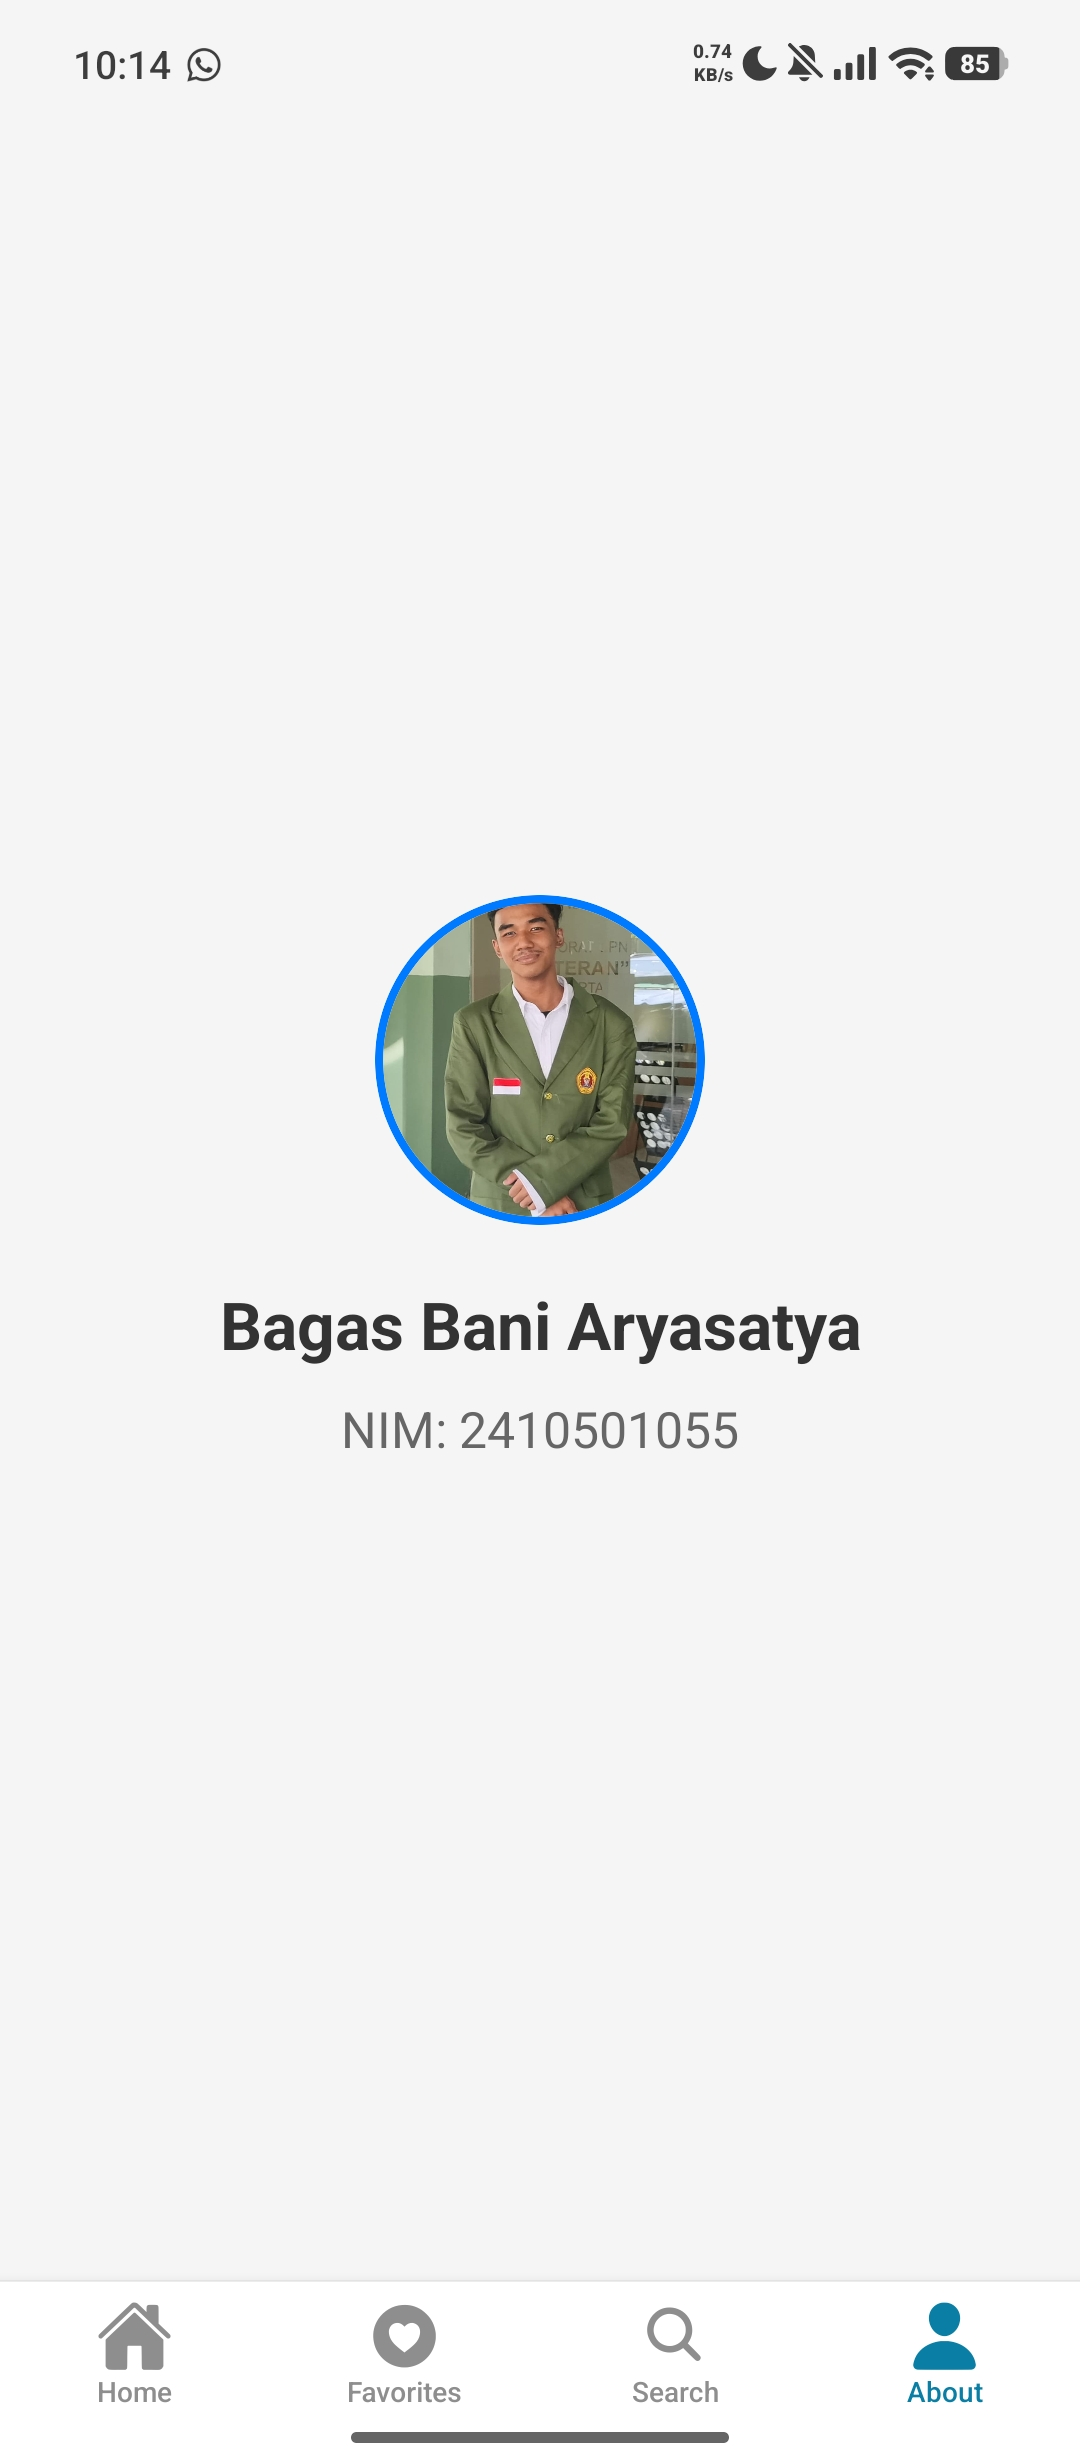
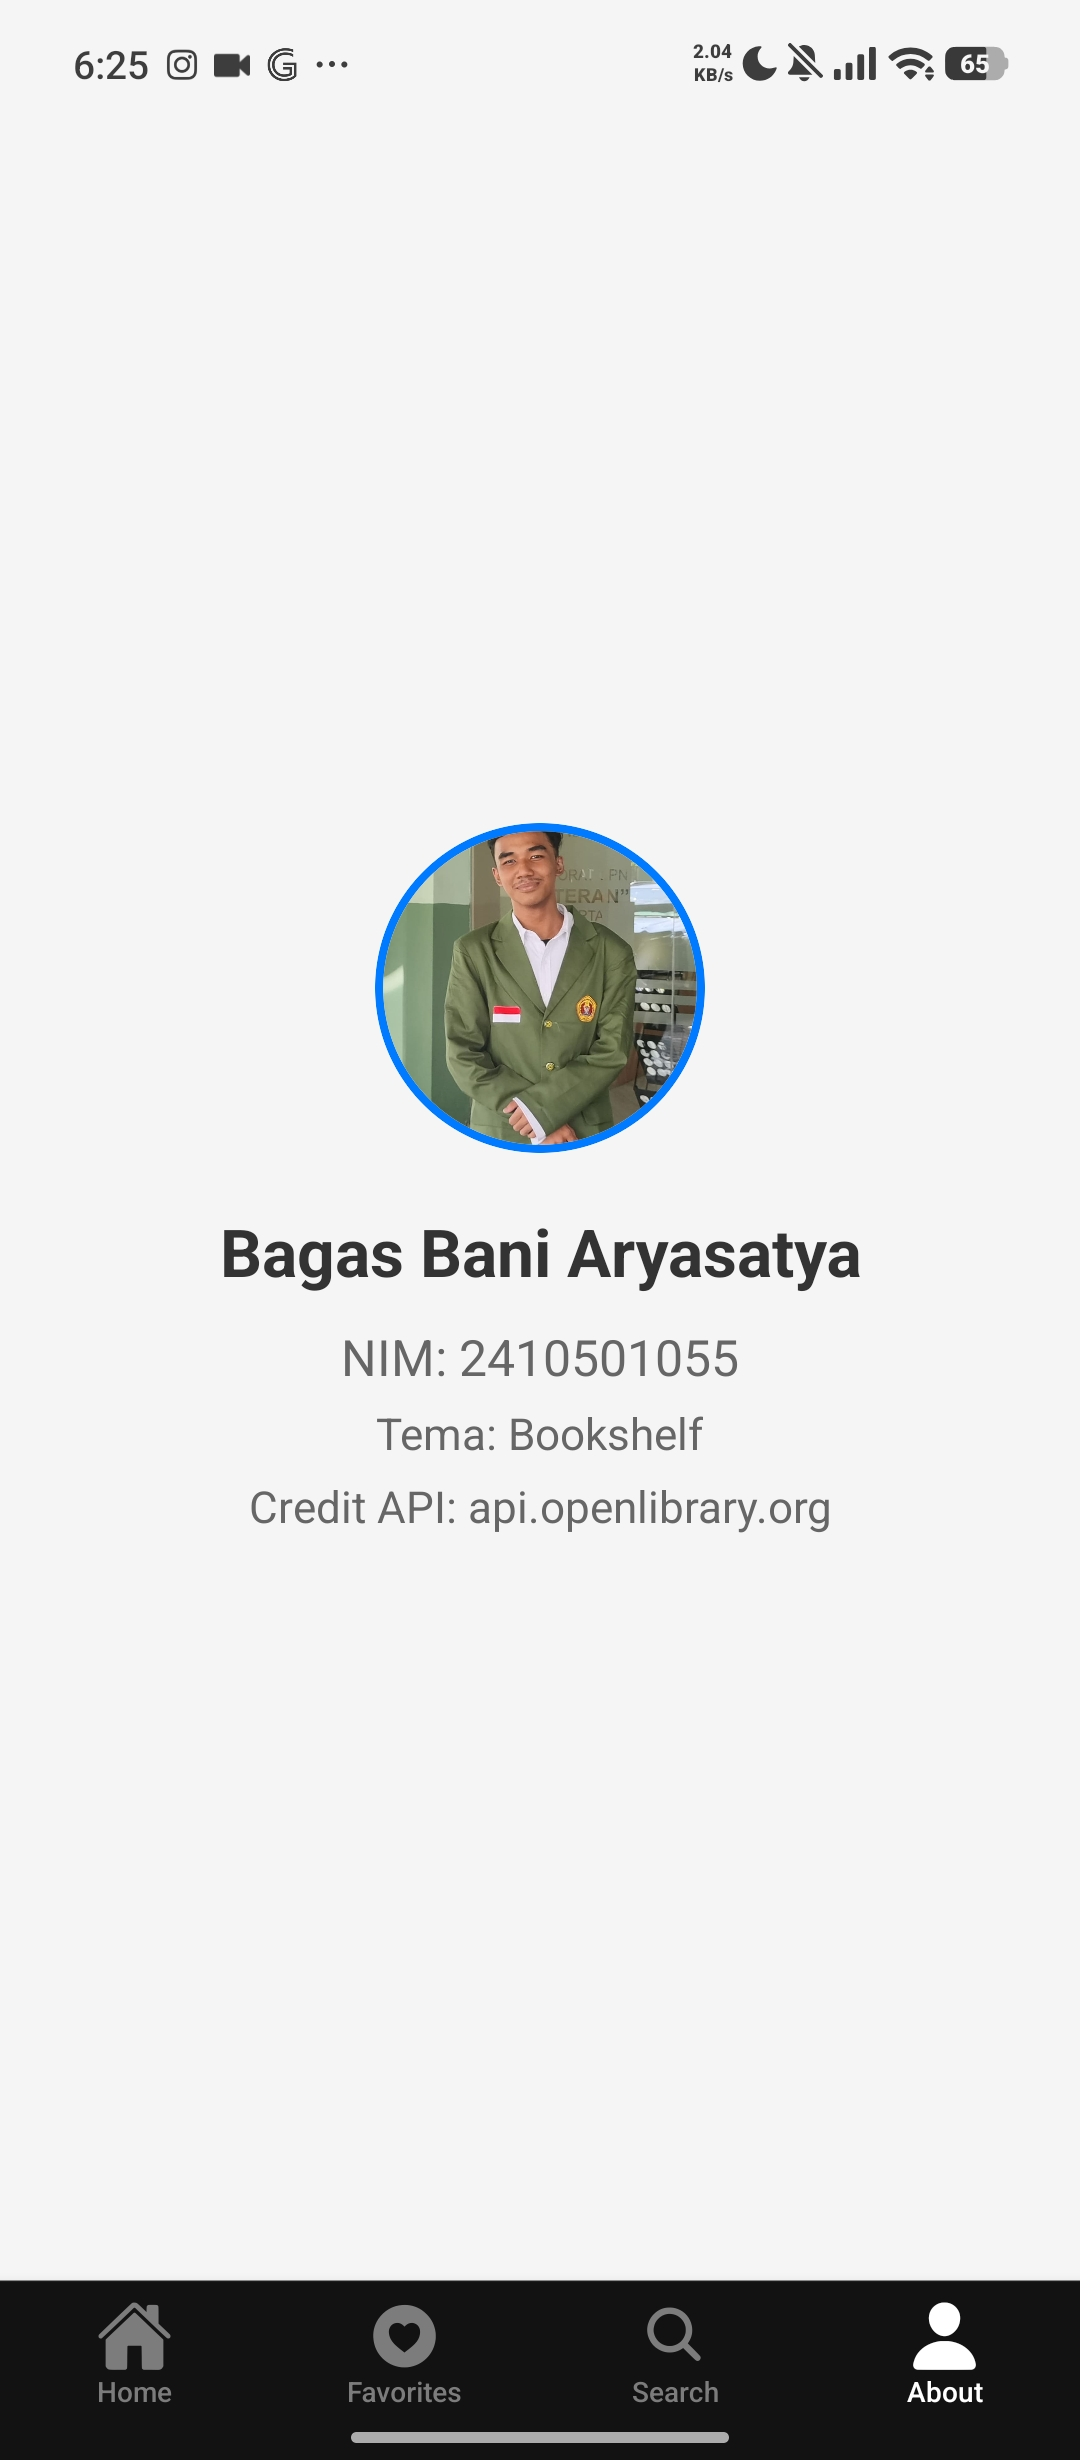
Menambahkan tema dan credit API di about, Menambahkan link google drive, melengkapkan README

diff --git a/app/(tabs)/about.tsx b/app/(tabs)/about.tsx
@@ -36,6 +36,22 @@ export default function AboutScreen() {
         }}>
           NIM: 2410501055
         </Text>
+        <Text style={{
+          fontSize: 16,
+          color: '#666',
+          textAlign: 'center',
+          marginTop: 5
+        }}>
+          Tema: Bookshelf
+        </Text>
+        <Text style={{
+          fontSize: 16,
+          color: '#666',
+          textAlign: 'center',
+          marginTop: 5
+        }}>
+          Credit API: api.openlibrary.org
+        </Text>
       </View>
     </SafeAreaView>
   );
